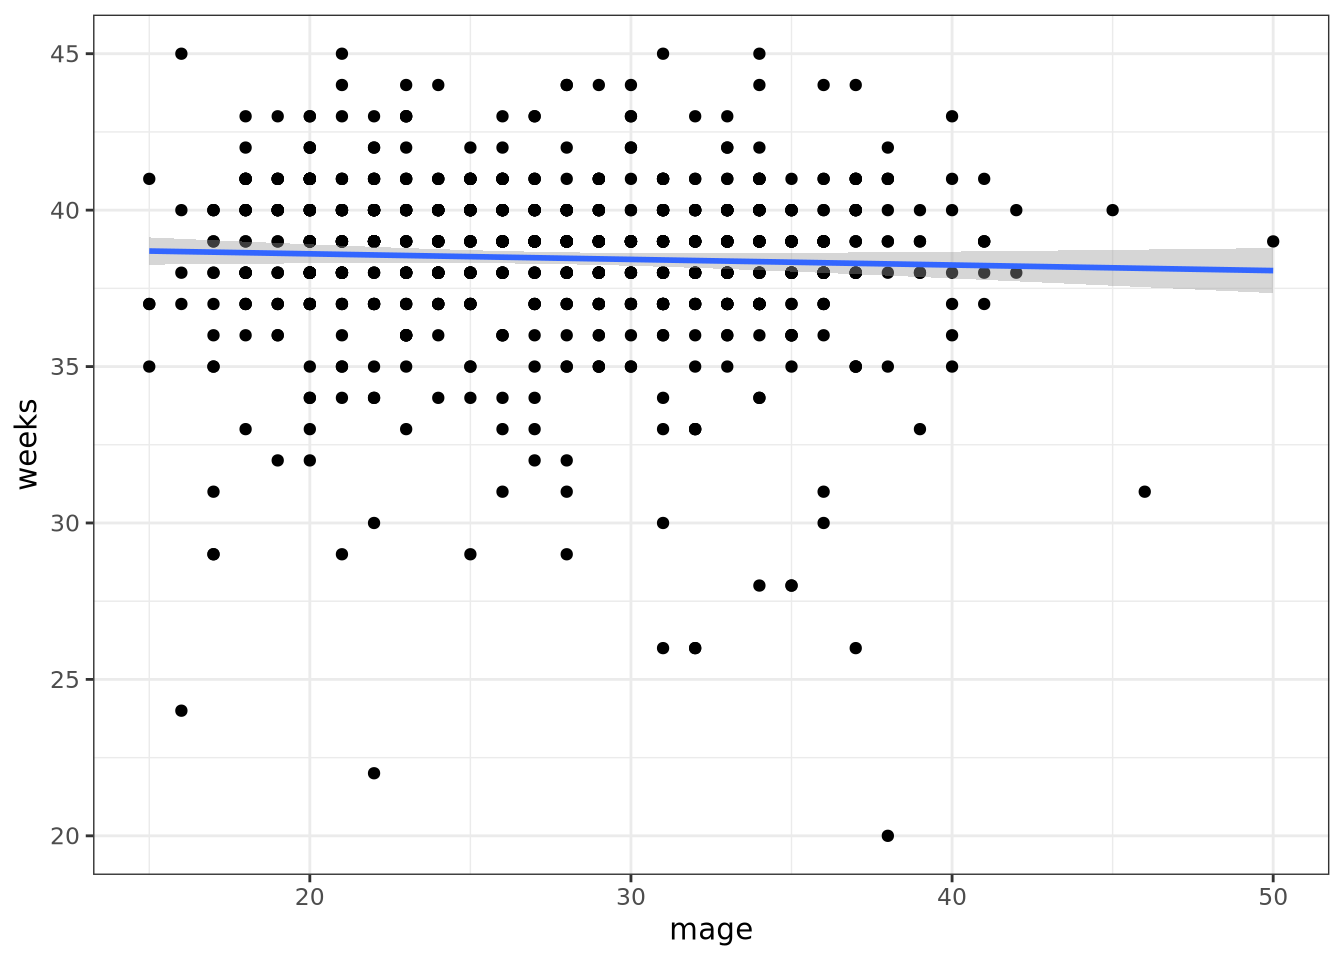
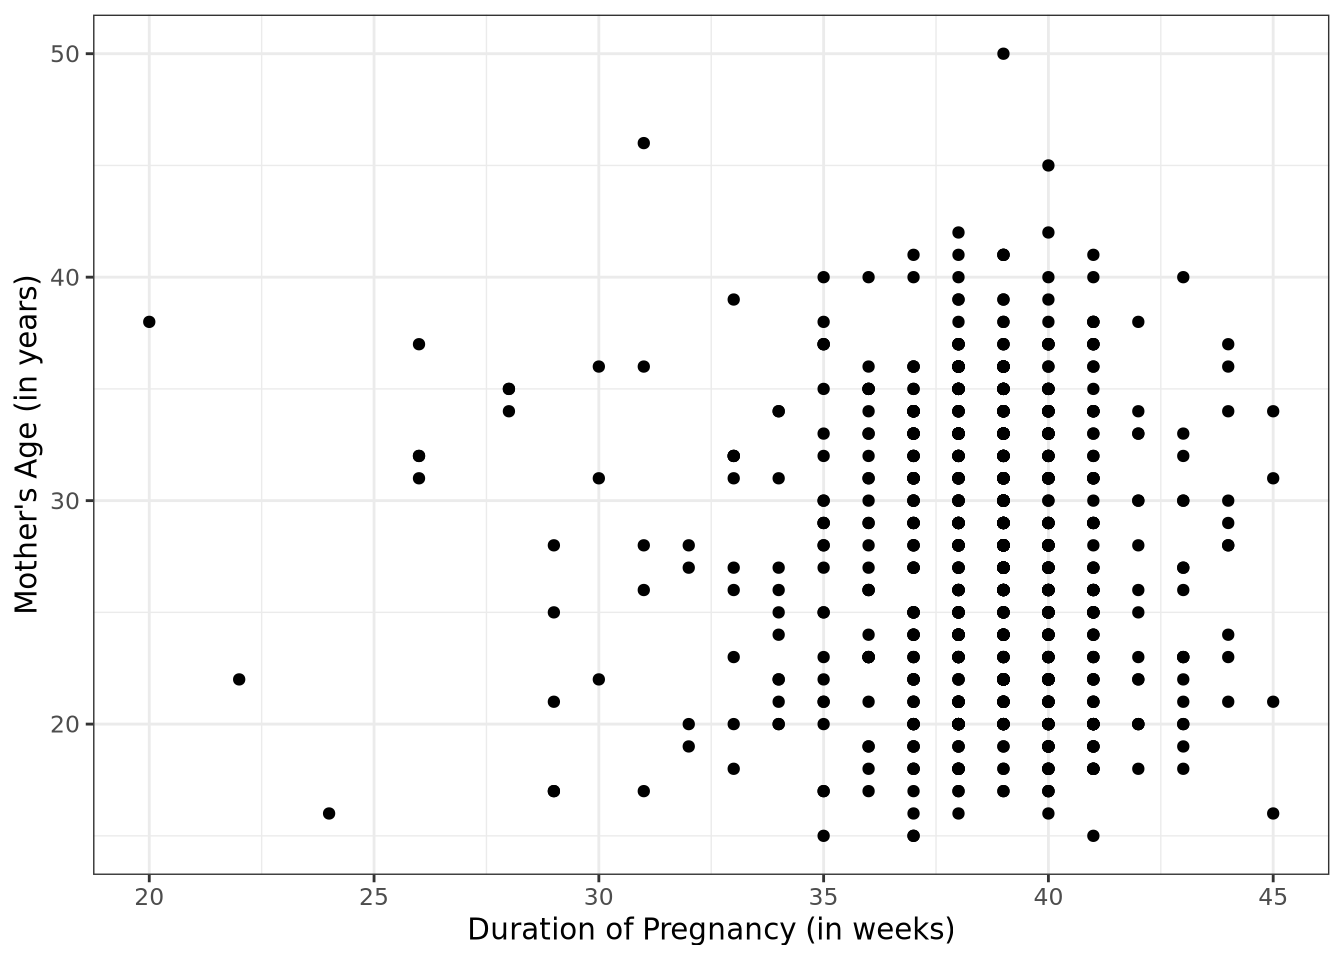
Answered Question #13 and created a graph.

diff --git a/PS02_source.html b/PS02_source.html
@@ -98,7 +98,7 @@ pre > code.sourceCode > span > a:first-child::before { text-decoration: underlin
     <div>
     <div class="quarto-title-meta-heading">Published</div>
     <div class="quarto-title-meta-contents">
-      <p class="date">Last modified on August 31, 2023 11:38:42 Eastern Daylight Time</p>
+      <p class="date">Last modified on August 31, 2023 11:47:54 Eastern Daylight Time</p>
     </div>
   </div>
   
@@ -1025,10 +1025,20 @@ Problem 13 Answers
 <div id="callout-39" class="callout-39-contents callout-collapse collapse show">
 <div class="callout-body-container callout-body">
 <div class="cell" data-layout-align="center">
-<div class="sourceCode cell-code" id="cb24"><pre class="sourceCode r code-with-copy"><code class="sourceCode r"><span id="cb24-1"><a href="#cb24-1" aria-hidden="true" tabindex="-1"></a><span class="co"># Type your code and comments inside the code chunk</span></span></code><button title="Copy to Clipboard" class="code-copy-button"><i class="bi"></i></button></pre></div>
+<div class="sourceCode cell-code" id="cb24"><pre class="sourceCode r code-with-copy"><code class="sourceCode r"><span id="cb24-1"><a href="#cb24-1" aria-hidden="true" tabindex="-1"></a><span class="fu">ggplot</span>(<span class="at">data =</span> nc, <span class="fu">aes</span>(<span class="at">x =</span> weeks, <span class="at">y =</span> mage)) <span class="sc">+</span> </span>
+<span id="cb24-2"><a href="#cb24-2" aria-hidden="true" tabindex="-1"></a>  <span class="fu">geom_point</span>() <span class="sc">+</span> </span>
+<span id="cb24-3"><a href="#cb24-3" aria-hidden="true" tabindex="-1"></a>  <span class="fu">labs</span>(<span class="at">x =</span> <span class="st">"Duration of Pregnancy (in weeks)"</span>, <span class="at">y =</span> <span class="st">"Mother's Age (in years)"</span>) <span class="sc">+</span> </span>
+<span id="cb24-4"><a href="#cb24-4" aria-hidden="true" tabindex="-1"></a>  <span class="fu">theme_bw</span>()</span></code><button title="Copy to Clipboard" class="code-copy-button"><i class="bi"></i></button></pre></div>
+<div class="cell-output-display">
+<div class="quarto-figure quarto-figure-center">
+<figure class="figure">
+<p><img src="PS02_source_files/figure-html/unnamed-chunk-24-1.png" class="img-fluid figure-img" width="672"></p>
+</figure>
+</div>
+</div>
 </div>
 <ul>
-<li>Delete this and put your text answer here.</li>
+<li>In this sample, the relationship between the mother’s age and the duration of the pregnancy doesn’t have much of a negative or positive correlation.</li>
 </ul>
 </div>
 </div>
